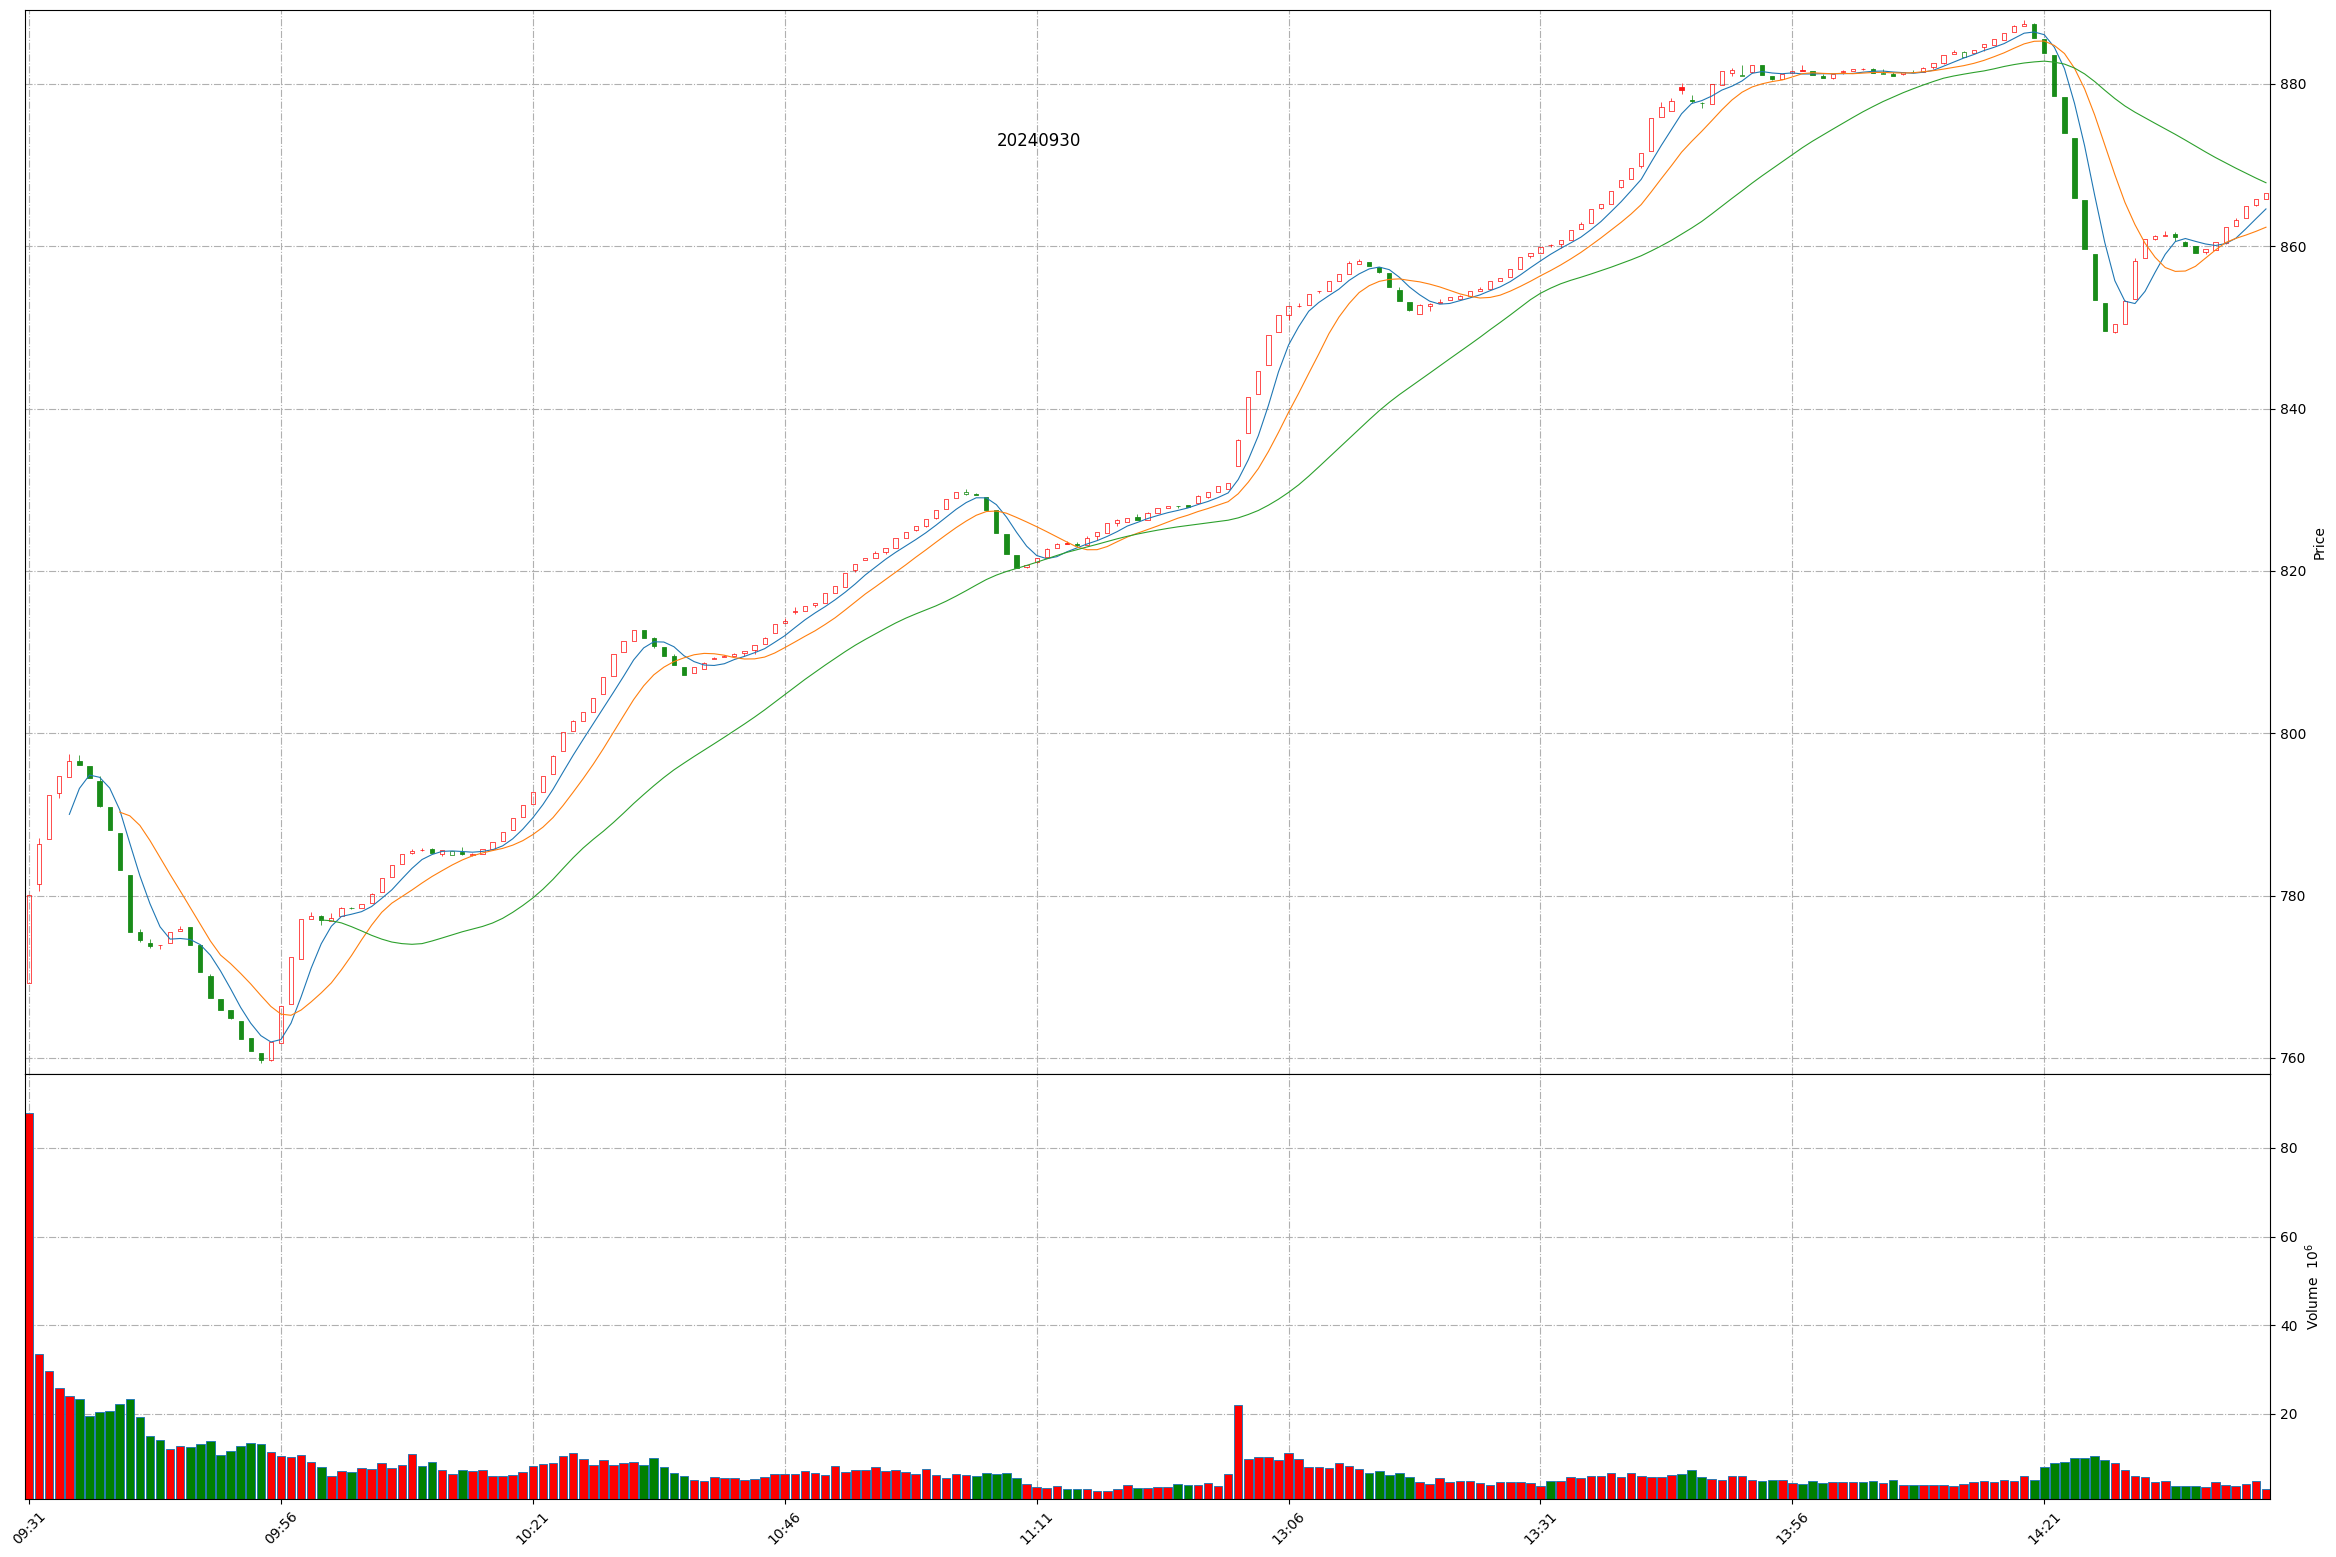
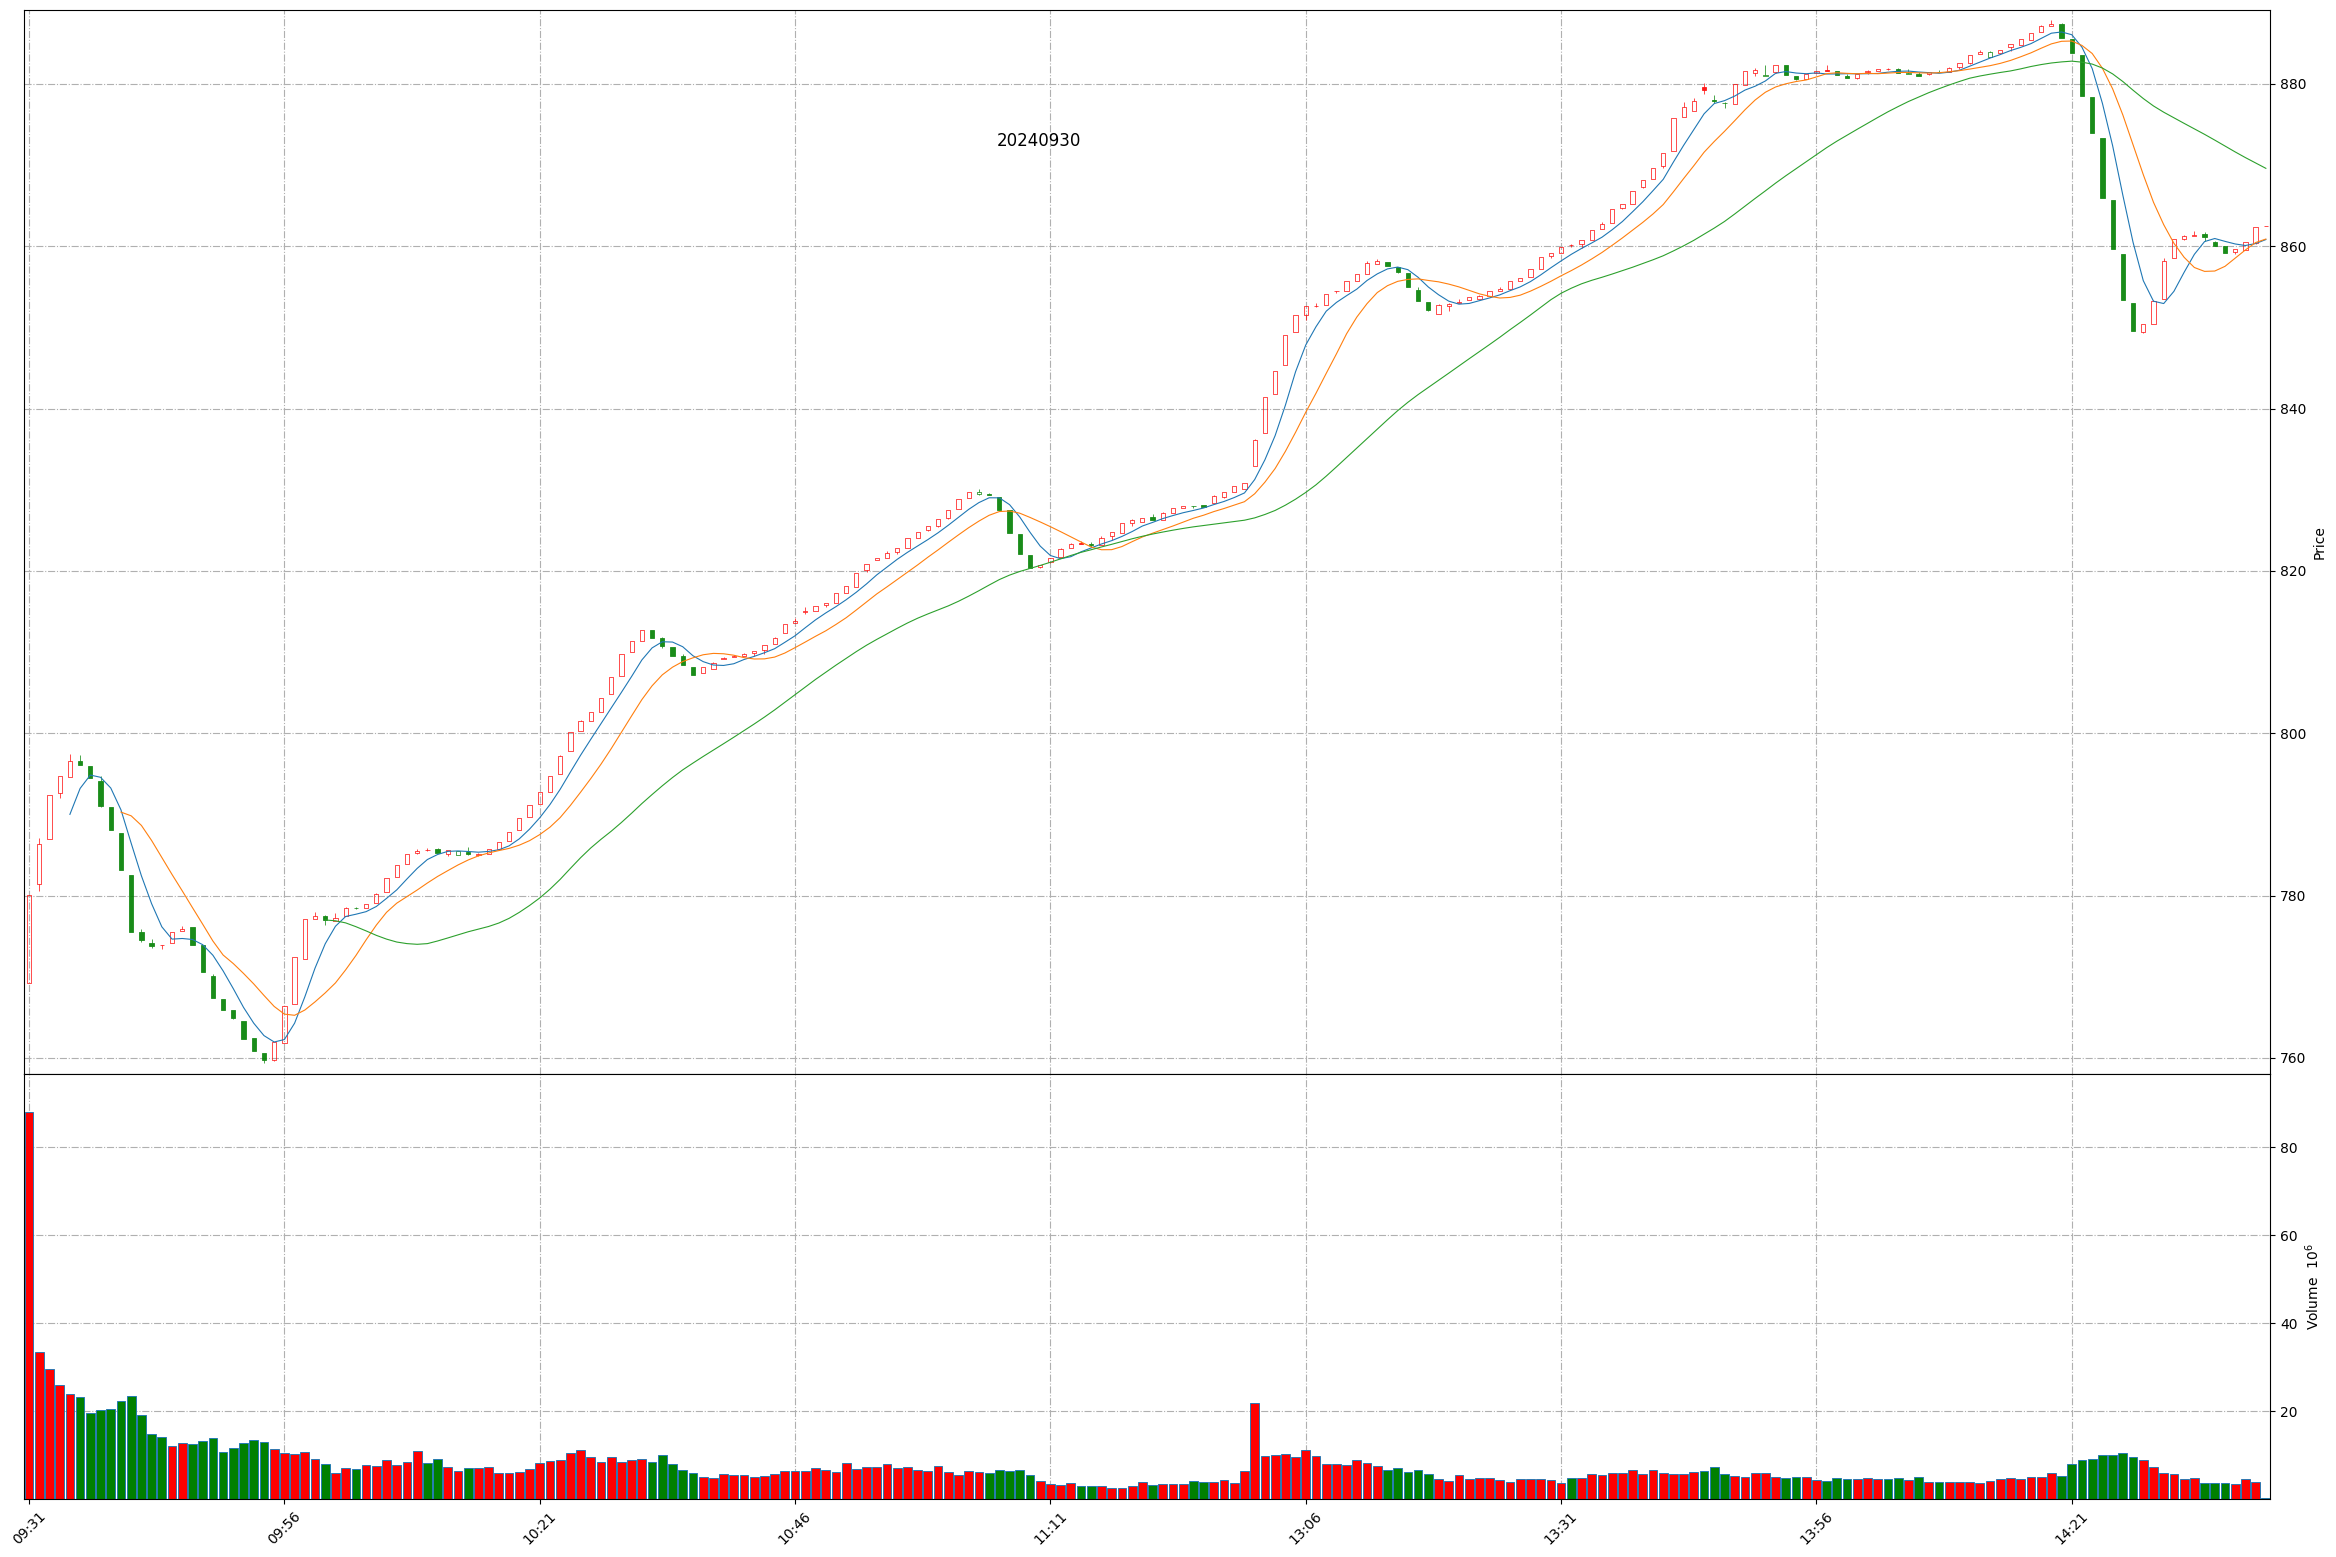
Github action update at 2024-09-30 14:48:27.

diff --git a/README.md b/README.md
@@ -1,11 +1,11 @@
 
 # Daily-A-share-market-quotes 每日 A 股指数（5min 更新）- 20240930
 
-### 上证指数 20240930 14:47
+### 上证指数 20240930 14:48
 ![](./fig/2024/9/20240930-sh000001.png)
 
-### 深证成指 20240930 14:47
+### 深证成指 20240930 14:48
 ![](./fig/2024/9/20240930-sz399001.png)
 
-### 北证50 20240930 14:47
+### 北证50 20240930 14:48
 ![](./fig/2024/9/20240930-bj899050.png)
